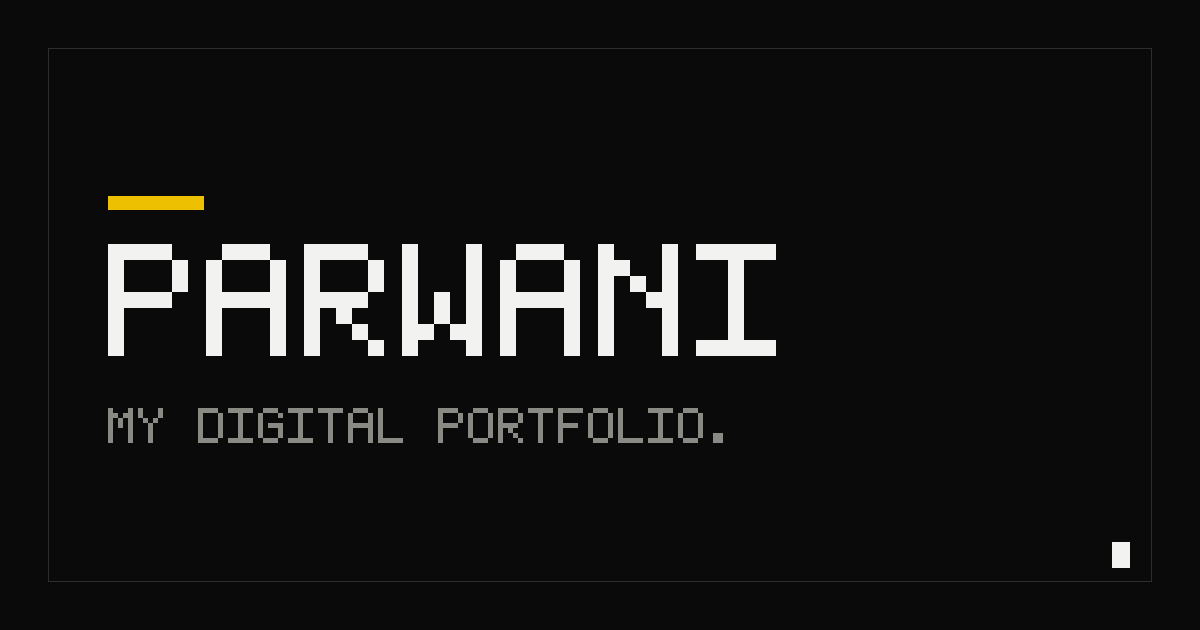
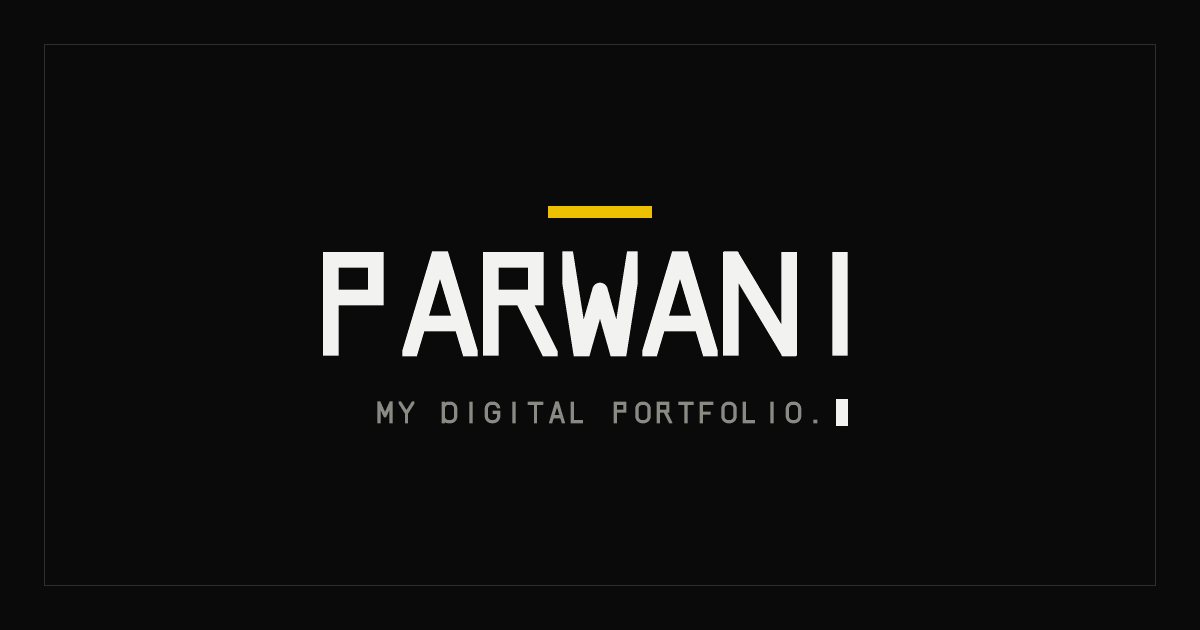
Redraw og.png with vector glyphs, centred for square crops
Two separate defects, reported from WhatsApp and LinkedIn.

WhatsApp crops the 1200x630 to a centred SQUARE for its inline thumbnail.
The old artwork was left-aligned, so the leading P fell outside the crop and
the card read "RWANI". All content is now centred and constrained to the
central 630px column; the generator asserts this and exits non-zero rather
than shipping an overflowing wordmark again.

LinkedIn's pixelation was inherent, not a resampling artefact: the letters
came from a 5x7 bitmap font scaled 16x, so every edge was a staircase of
16px blocks. Glyphs are now geometry -- rectangles, thick segments and
rounded-rect rings evaluated as point-in-shape predicates -- rasterised with
3x3 supersampling, so diagonals carry a proper coverage ramp.

Drawing a glyph that does not exist used to silently emit a space, which
rendered the subtitle as "PORT OLIO" until it was looked at. Missing glyphs
now abort the build.

og:image gains ?v=2 because WhatsApp and LinkedIn cache by URL and the
filename is unchanged; without it they would keep serving the cropped card.

diff --git a/public/buyer-risk-grade.html b/public/buyer-risk-grade.html
@@ -11,7 +11,7 @@
 <meta property="og:description" content="Scores a hypothetical buyer 1–10 the way a trade credit underwriter would: buyer financials weighted against sector, country, and sovereign risk.">
 <meta property="og:type" content="website">
 <meta property="og:site_name" content="Milind Parwani">
-<meta property="og:image" content="https://milindparwani.com/og.png">
+<meta property="og:image" content="https://milindparwani.com/og.png?v=2">
 <meta property="og:image:width" content="1200">
 <meta property="og:image:height" content="630">
 <meta name="twitter:card" content="summary_large_image">

diff --git a/public/crack.html b/public/crack.html
@@ -11,7 +11,7 @@
 <meta property="og:description" content="A five-digit code, one cycling digit at a time. Lock each digit before it moves on — twenty levels, faster with every one you land.">
 <meta property="og:type" content="website">
 <meta property="og:site_name" content="Milind Parwani">
-<meta property="og:image" content="https://milindparwani.com/og.png">
+<meta property="og:image" content="https://milindparwani.com/og.png?v=2">
 <meta property="og:image:width" content="1200">
 <meta property="og:image:height" content="630">
 <meta name="twitter:card" content="summary_large_image">

diff --git a/public/index.html b/public/index.html
@@ -11,7 +11,7 @@
 <meta property="og:description" content="Economics and finance journaling, browser tools built out of necessity, and side projects in music, travel, and games.">
 <meta property="og:type" content="website">
 <meta property="og:site_name" content="Milind Parwani">
-<meta property="og:image" content="https://milindparwani.com/og.png">
+<meta property="og:image" content="https://milindparwani.com/og.png?v=2">
 <meta property="og:image:width" content="1200">
 <meta property="og:image:height" content="630">
 <meta name="twitter:card" content="summary_large_image">